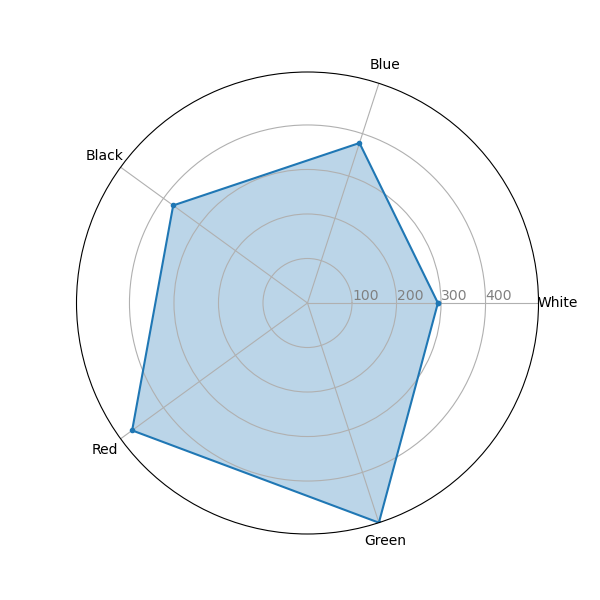
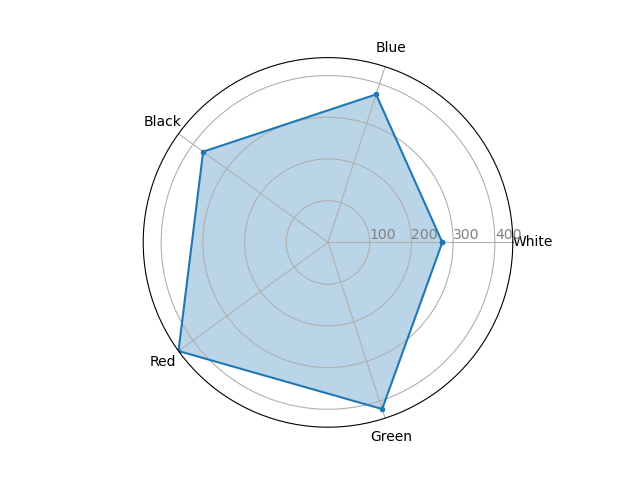
Update visualizations

diff --git a/src/nodes/data_viz.py b/src/nodes/data_viz.py
@@ -59,13 +59,11 @@ group by d.id;
     '''
     decks_colors = pd.read_sql_query(query, client.engine)
     df = decks_colors.groupby(by='uno').agg(white=('white', 'sum'),
-                          blue=('blue', 'sum'),
-                          black=('black', 'sum'),
-                          red=('red', 'sum'),
-                          green=('green', 'sum'))
-    fig = plt.figure(figsize=(6,6))
+                                            blue=('blue', 'sum'), black=('black', 'sum'),
+                                            red=('red', 'sum'), green=('green', 'sum'))
+    # fig = plt.figure(figsize=(6, 6))
     ax = plt.subplot(polar='True')
-    categories = ['White','Blue','Black','Red','Green']
+    categories = ['White', 'Blue', 'Black', 'Red', 'Green']
     N = len(categories)
     values = df.iloc[0].tolist()
     values += values[:1]
@@ -171,8 +169,8 @@ limit 20'''
     # plt.ylabel("Card count", size=15)
     plt.title("Nonland card name count", size=18)
     plt.tight_layout()
-    #ax.set_xticklabels(name)
-    #plt.subplots_adjust(bottom=0.2)
+    # ax.set_xticklabels(name)
+    # plt.subplots_adjust(bottom=0.2)
     plt.grid(axis='x')
     plt.savefig("../viz/nonland_name_count.png", dpi=100)
 
@@ -205,7 +203,7 @@ where c.type not like '%Basic Land%'
 and c.uuid = dc.card_id
 group by basic_type
 order by 2 desc;'''
-    df = pd.read_sql_query(query, client.engine)    
+    df = pd.read_sql_query(query, client.engine)
     types = df.iloc[:, 0].tolist()
     number = df.iloc[:, 1].tolist()
     plt.figure(figsize=(12, 8))
@@ -215,8 +213,8 @@ order by 2 desc;'''
     # plt.ylabel("Card count", size=15)
     plt.title("Card type count", size=18)
     plt.tight_layout()
-    #ax.set_xticklabels(name)
-    #plt.subplots_adjust(bottom=0.2)
+    # ax.set_xticklabels(name)
+    # plt.subplots_adjust(bottom=0.2)
     plt.grid(axis='x')
     plt.savefig("../viz/types_count.png", dpi=100)
 
@@ -237,7 +235,7 @@ order by 1,2;
     types = df.iloc[:, 1].tolist()
     number = df.iloc[:, 2].tolist()
     plt.figure(figsize=(12, 8))
-
+    sets = [a.upper() for a in sets]
     # make barplot
     sns.barplot(x=sets, y=number, hue=types, palette='tab10')
     # set labels
@@ -247,29 +245,6 @@ order by 1,2;
     plt.grid(axis='y')
     plt.tight_layout()
     plt.savefig("../viz/sets_type_count.png", dpi=100)
-
-
-def plot_rarity_count(client):
-    query = '''select c.rarity
-,sum(dc.amount) as cards
-from card as c, deck_card as dc
-where c.uuid = dc.card_id
-and c.type not like '%Basic Land%'
-group by c.rarity
-order by 2 desc;
-    '''
-    df = pd.read_sql_query(query, client.engine)
-    rarity = df.iloc[:, 0].tolist()
-    number = df.iloc[:, 1].tolist()
-    plt.figure(figsize=(12, 8))
-    sns.plo(x=rarity, y=number, palette='muted')
-    # set labels
-    # plt.ylabel("Sets", size=15)
-    # plt.ylabel("Card count", size=15)
-    plt.title("Card rarity count", size=18)
-    plt.grid(axis='y')
-    plt.tight_layout()
-    plt.savefig("../viz/rarity_count.png", dpi=100)
 
 
 def plot_amount_price_by_rarity(client):
@@ -294,41 +269,137 @@ order by 2 desc;
     plt.savefig("../viz/amount_price_rarity.png", dpi=100)
 
 
-def plot_winner_price_in_time(client):
-    query = '''select d.date, sum(c.price_paper)
-from card as c, deck as d, deck_card as dc
-where c.uuid = dc.card_id and d.id = dc.deck_id
-and d.position = 1
-group by d.date
-order by 1 desc'''
+def plot_cmc_count(client):
+    query = '''select
+c.cmc as cmc,sum(dc.amount) as number
+from card as c, deck_card as dc
+where c.uuid = dc.card_id
+and case when c.type like '%//%' then SPLIT_PART(SPLIT_PART(c.type,' // ',1),' — ',1 ) else
+SPLIT_PART(c.type,' — ',1) end not like '%Land%'
+group by c.cmc
+order by 1'''
     df = pd.read_sql_query(query, client.engine)
-    #df = df.sort_values(df.columns[1],ascending=False)
-    date = df.iloc[:, 0].tolist()
-    prices = df.iloc[:, 1].tolist()
-    plt.figure(figsize=(16,8))
-
-    # make barplot
-    sns.lineplot(x=date, y=prices)
+    cmcs = df['cmc'].tolist()
+    number = df['number'].tolist()
+    plt.figure(figsize=(12, 8))
+    sns.barplot(x=cmcs, y=number, palette='flare')
     # set labels
     # plt.ylabel("Sets", size=15)
     # plt.ylabel("Card count", size=15)
-    plt.title("Prices of winner decks by date", size=18)
+    plt.title("Card CMC distribution", size=18)
+    plt.grid(axis='y')
     plt.tight_layout()
-    plt.savefig("../viz/avg_price_by_date.png", dpi=100)
+    plt.savefig("../viz/cmc_count.png", dpi=100)
+
+
+def plot_cmc_type_count(client):
+    query = '''select
+c.cmc as cmc
+,case when c.type like '%//%' then SPLIT_PART(SPLIT_PART(c.type,' // ',1),' — ',1 ) else SPLIT_PART(c.type,' — ',1) end as basic_type
+,sum(dc.amount) as number
+from card as c, deck_card as dc
+where c.uuid = dc.card_id
+and case when c.type like '%//%' then SPLIT_PART(SPLIT_PART(c.type,' // ',1),' — ',1 ) else SPLIT_PART(c.type,' — ',1) end not like '%Land%'
+group by c.cmc, basic_type
+order by 1'''
+    df = pd.read_sql_query(query, client.engine)
+    cmcs = df['cmc'].tolist()
+    types = df['basic_type']
+    number = df['number'].tolist()
+    plt.figure(figsize=(12, 8))
+    sns.barplot(x=cmcs, y=number, hue=types, palette='muted')
+    # set labels
+    # plt.ylabel("Sets", size=15)
+    # plt.ylabel("Card count", size=15)
+    plt.title("Card type distribution by CMC", size=18)
+    plt.grid(axis='y')
+    plt.tight_layout()
+    plt.savefig("../viz/cmc_type_count.png", dpi=100)
+
+
+def plot_winner_price_in_tournament(client):
+    query_winners = '''select SPLIT_PART(d.tournament,'-',3) as tournament, sum(c.price_paper) as winner_price
+from card as c, deck as d, deck_card as dc
+where c.uuid = dc.card_id and d.id = dc.deck_id
+and d.position = 1
+and d.site != 'magic'
+group by d.tournament
+order by 1 desc;'''
+    query_avg = '''with tournaments_decks as (select SPLIT_PART(d.tournament,'-',3) as tournament, d.id as deck_id, sum(c.price_paper) as price
+from card as c, deck as d, deck_card as dc
+where c.uuid = dc.card_id and d.id = dc.deck_id
+and d.site != 'magic'
+group by d.tournament, d.id)
+select tournament, round(avg(price),2) as avg_price
+from tournaments_decks
+group by tournament
+order by 1 desc;'''
+    df_w = pd.read_sql_query(query_winners, client.engine)
+
+    df = pd.read_sql_query(query_avg, client.engine)
+
+    df = df.merge(right=df_w, how='inner', on='tournament')
+    df.columns = ['tournament', 'Average deck price', 'Winner deck price']
+
+    plt.figure(figsize=(16, 8))
+
+    # make barplot
+    sns.lineplot(data=df, markers=True)
+    # set labels
+    plt.ylabel("Price in USD", size=15)
+    plt.xlabel("Tournament ID", size=15)
+    plt.grid()
+    plt.title("Prices of decks by tournament", size=18)
+    plt.tight_layout()
+    plt.savefig("../viz/avg_winner_price.png", dpi=100)
+
+
+def plot_position_correlation(client):
+    query = '''select CAST(SPLIT_PART(d.tournament,'-',3) as INTEGER) as tou, CAST(d.position as INTEGER) as pos, sum(c.price_paper * dc.amount) as price,
+
+sum(case when (c.color_identity) like '%W%' then 1 else 0 end) as white,
+sum(case when (c.color_identity) like '%U%' then 1 else 0 end) as blue,
+sum(case when (c.color_identity) like '%B%' then 1 else 0 end) as black,
+sum(case when (c.color_identity) like '%R%' then 1 else 0 end) as red,
+sum(case when (c.color_identity) like '%G%' then 1 else 0 end) as green,
+
+ROUND((CAST (SUM(c.cmc) as NUMERIC) / CAST (SUM(dc.amount) as NUMERIC)),2) as cmc_ratio,
+
+sum(case when (case when c.type like '%//%' then SPLIT_PART(SPLIT_PART(c.type,' // ',1),' — ',1 ) else SPLIT_PART(c.type,' — ',1) end) like '%Creature%' then dc.amount else 0 end) as creatures,
+sum(case when (case when c.type like '%//%' then SPLIT_PART(SPLIT_PART(c.type,' // ',1),' — ',1 ) else SPLIT_PART(c.type,' — ',1) end) = 'Instant' then dc.amount else 0 end) as instants,
+sum(case when (case when c.type like '%//%' then SPLIT_PART(SPLIT_PART(c.type,' // ',1),' — ',1 ) else SPLIT_PART(c.type,' — ',1) end) = 'Sorcery' then dc.amount else 0 end) as sorceries,
+sum(case when (case when c.type like '%//%' then SPLIT_PART(SPLIT_PART(c.type,' // ',1),' — ',1 ) else SPLIT_PART(c.type,' — ',1) end) in ('Enchantment','Legendary Enchantment') then dc.amount else 0 end) as enchantments,
+sum(case when (case when c.type like '%//%' then SPLIT_PART(SPLIT_PART(c.type,' // ',1),' — ',1 ) else SPLIT_PART(c.type,' — ',1) end) in ('Artifact','Legendary Artifact') then dc.amount else 0 end) as artifacts,
+sum(case when (case when c.type like '%//%' then SPLIT_PART(SPLIT_PART(c.type,' // ',1),' — ',1 ) else SPLIT_PART(c.type,' — ',1) end) = 'Legendary Planeswalker' then dc.amount else 0 end) as planeswalkers,
+sum(case when (case when c.type like '%//%' then SPLIT_PART(SPLIT_PART(c.type,' // ',1),' — ',1 ) else SPLIT_PART(c.type,' — ',1) end) in ('Land','Basic Land') then dc.amount else 0 end) as lands,
+
+sum(dc.amount) as total_cards
+from card as c, deck as d, deck_card as dc
+where c.uuid = dc.card_id and d.id = dc.deck_id
+and d.site != 'magic'
+group by d.tournament, d.id, d.position;
+    '''
+    df = pd.read_sql_query(query, client.engine)
+    correlation = df.corr()
+    
+    plt.figure(figsize=(16, 8))
+    sns.heatmap(data=correlation, annot=True)
+    plt.title("Correlation between variables", size=18)
+    plt.savefig("../viz/correlation.png", dpi=100)
 
 
 def update(client, params):
-    #plot_decks_colors(client)
-    #plot_nonland_name_cloud(client)
-    #plot_nonland_name_bar(client)
-    #plot_types_square(client)
-    #plot_types_bar(client)
-    #plot_set_type_count(client)
+    plot_decks_colors(client)
+    plot_nonland_name_cloud(client)
+    plot_nonland_name_bar(client)
+    plot_types_square(client)
+    plot_types_bar(client)
+    plot_set_type_count(client)
+    plot_cmc_count(client)
+    plot_cmc_type_count(client)
     plot_amount_price_by_rarity(client)
-    #plot_price_by_rarity(client)
-    #plot_winner_price_in_time(client)
-    #plot_max_price_in_time(client)
-
+    plot_winner_price_in_tournament(client)
+    plot_position_correlation(client)
 
 
 def done(client, params):

diff --git a/src/pipeline.py b/src/pipeline.py
@@ -39,14 +39,14 @@ def process(client, params):
     """
     data_preparation.run(client, params)
 
-    #if not data_gathering.done(client, params):
-    #    data_gathering.update(client, params)
+    if not data_gathering.done(client, params):
+        data_gathering.update(client, params)
 
-    #if not data_transform.done(client, params):
-    #    data_transform.update(client, params)
+    if not data_transform.done(client, params):
+        data_transform.update(client, params)
 
-    #if not data_storage.done(client, params):
-    #    data_storage.update(client, params)
+    if not data_storage.done(client, params):
+        data_storage.update(client, params)
 
     if not data_viz.done(client, params):
         data_viz.update(client, params)
